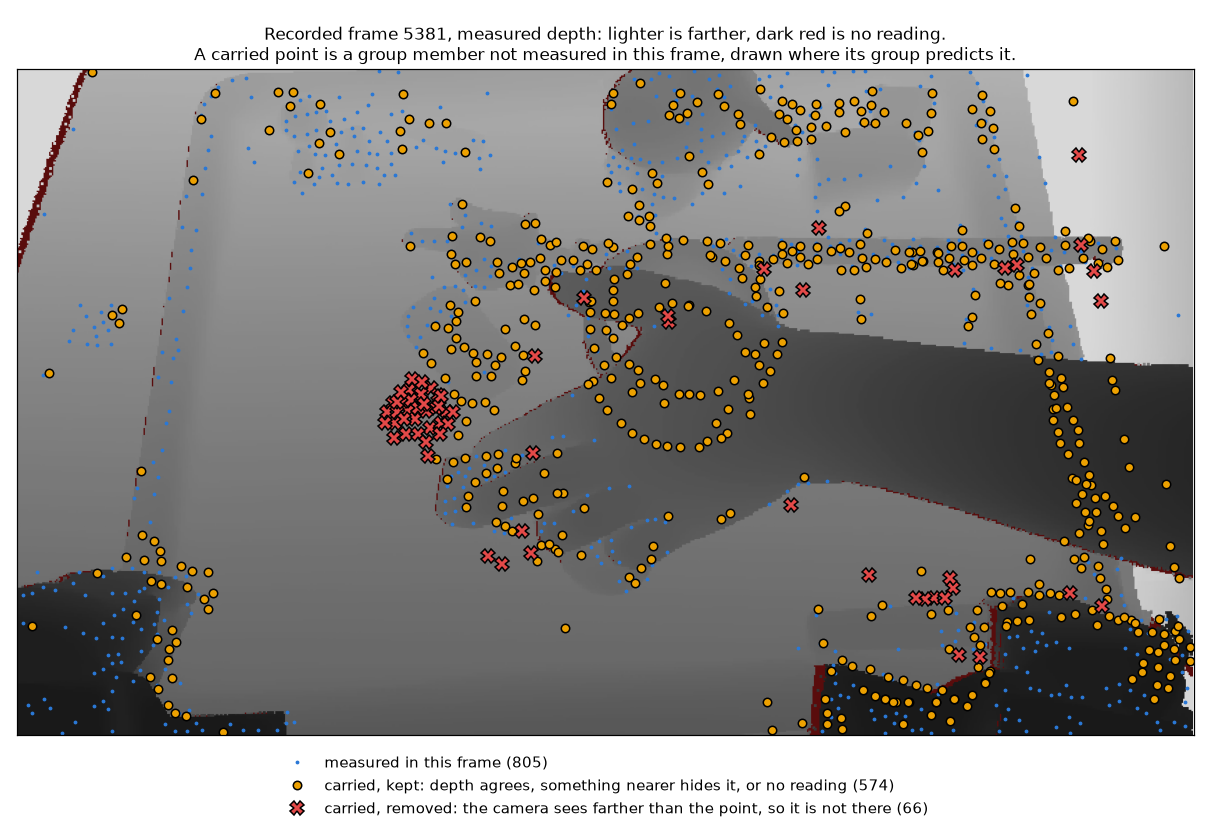
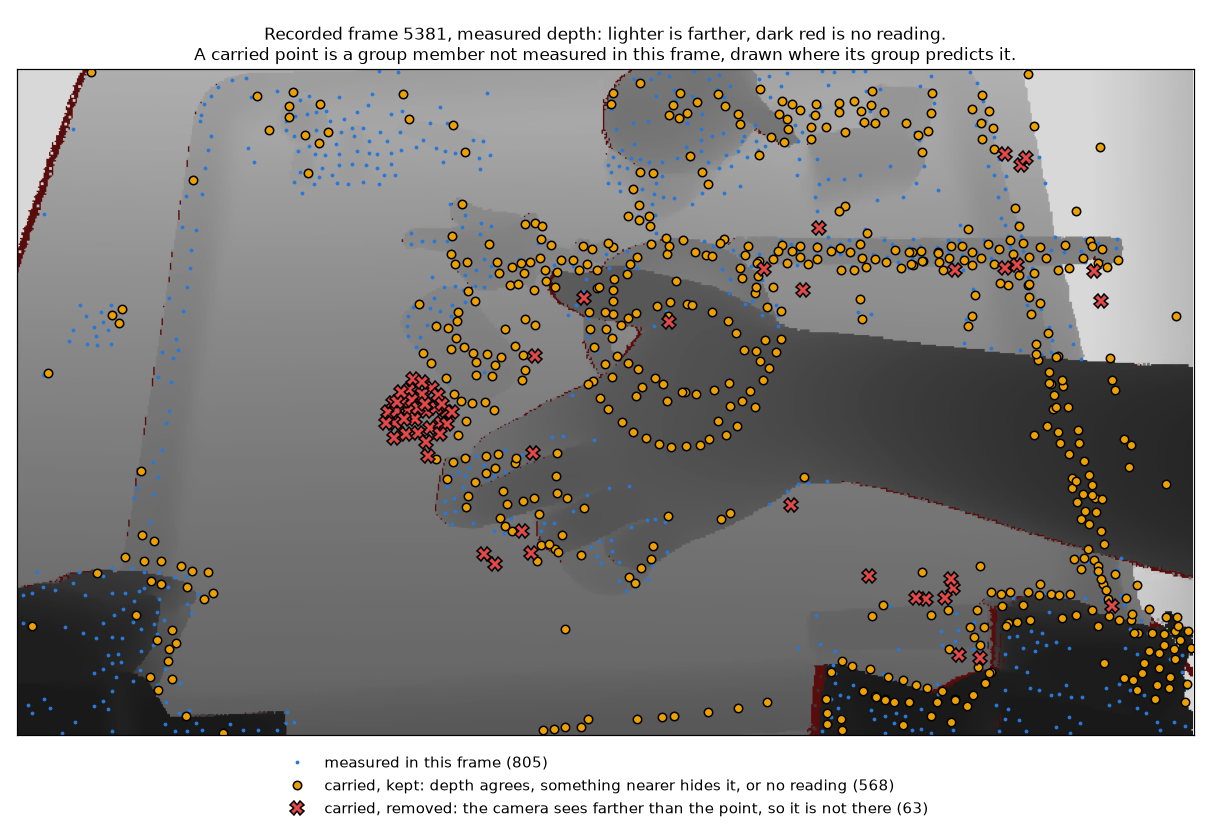
Re-render the motion-group evidence on the reviewed code
The #286 evidence was rendered before the review fixes changed how groups
re-vote hidden points and which points the depth check may remove. Rendered
again from the rebuilt #286 layer with render_286.py: the held-out ring
predictions' 95th-percentile error is 8.0 mm (was 7.0), and at frame 5381
depth removes 63 of 631 carried members (was 66 of 640). Every other
measured value is unchanged.

diff --git a/docs/proofs/flash-motion-groups-20261125/EVIDENCE.md b/docs/proofs/flash-motion-groups-20261125/EVIDENCE.md
@@ -1,6 +1,6 @@
 # FLASH scene motion groups — evidence
 
-Rendered on 2026-11-25 from three recorded fixtures that the scene motion
+Rendered on 2026-11-26 from three recorded fixtures that the scene motion
 groups PR ships, using that PR's own functions. Only the image-matching
 fixture stores colour images; the group replay stores point positions only,
 and the depth fixture stores one depth image. These record one run at one
@@ -24,11 +24,11 @@ Measured on these inputs:
   points moved a median 5.4 mm while the rest of the table moved 0.0 mm. With
   the ring's measurements withheld for eight updates from frames 233, 530 and
   806, the group predicts 1,020 recorded ring positions with a 1.1 mm median
-  and 7.0 mm 95th-percentile error.
-- Frame 5381: 805 points measured; 640 group members carried. Depth removes
-  66 of them, including all 15 the fixture names; at those 66 pixels the
-  camera measures a surface a median 30 mm (at least 7 mm) farther than the
-  predicted point. The other 574 are kept.
+  and 8.0 mm 95th-percentile error.
+- Frame 5381: 805 points measured; 631 group members carried. Depth removes
+  63 of them, including all 15 the fixture names; at those 63 pixels the
+  camera measures a surface a median 32 mm (at least 8 mm) farther than the
+  predicted point. The other 568 are kept.
 
 Re-render with `render_286.py` from the landing-build tooling:
 `python render_286.py <tree with src/> tests/policies/flash/fixtures <out>`.
